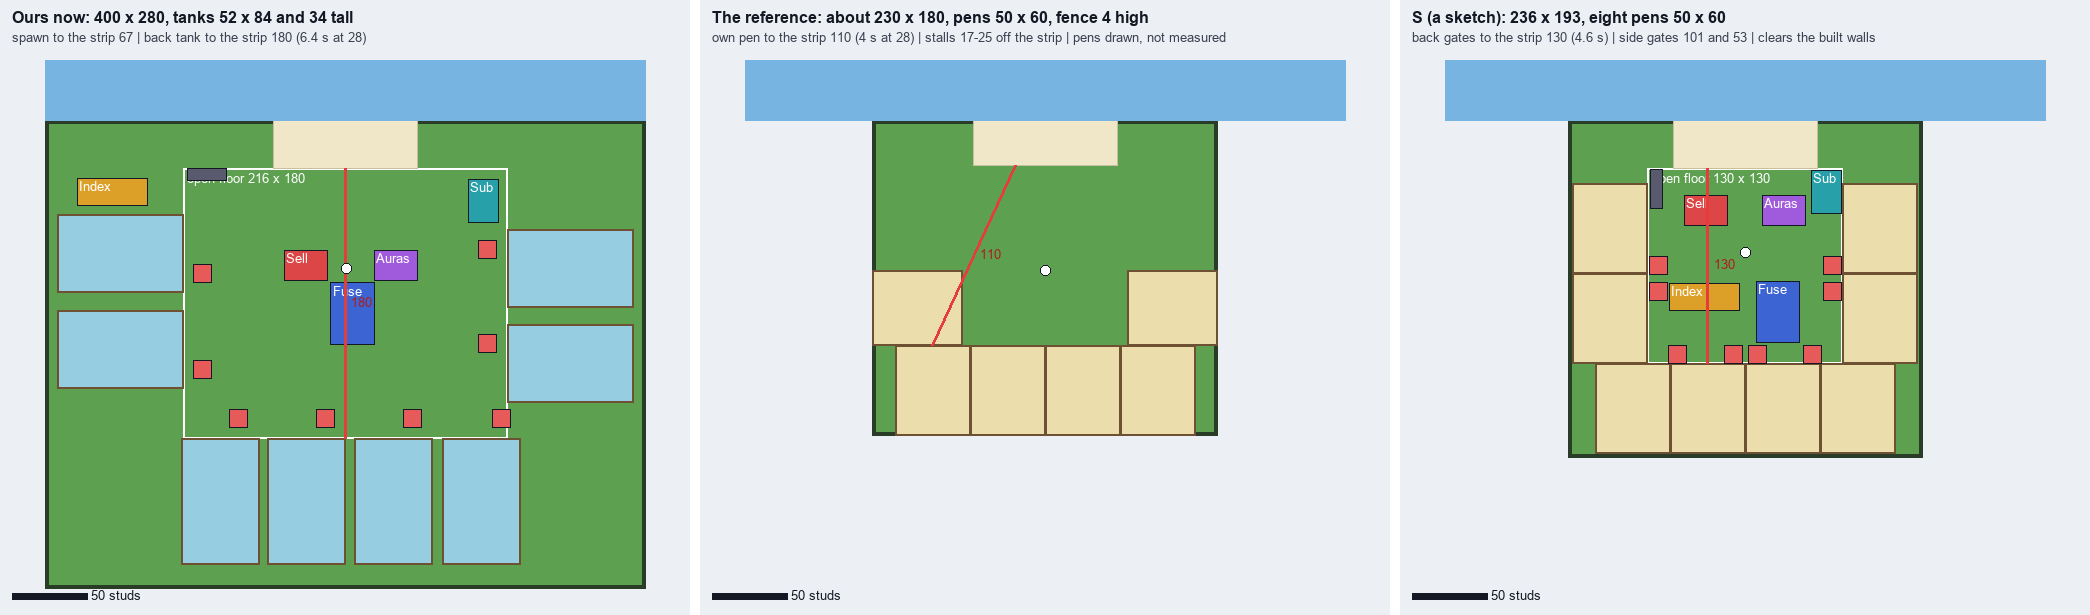
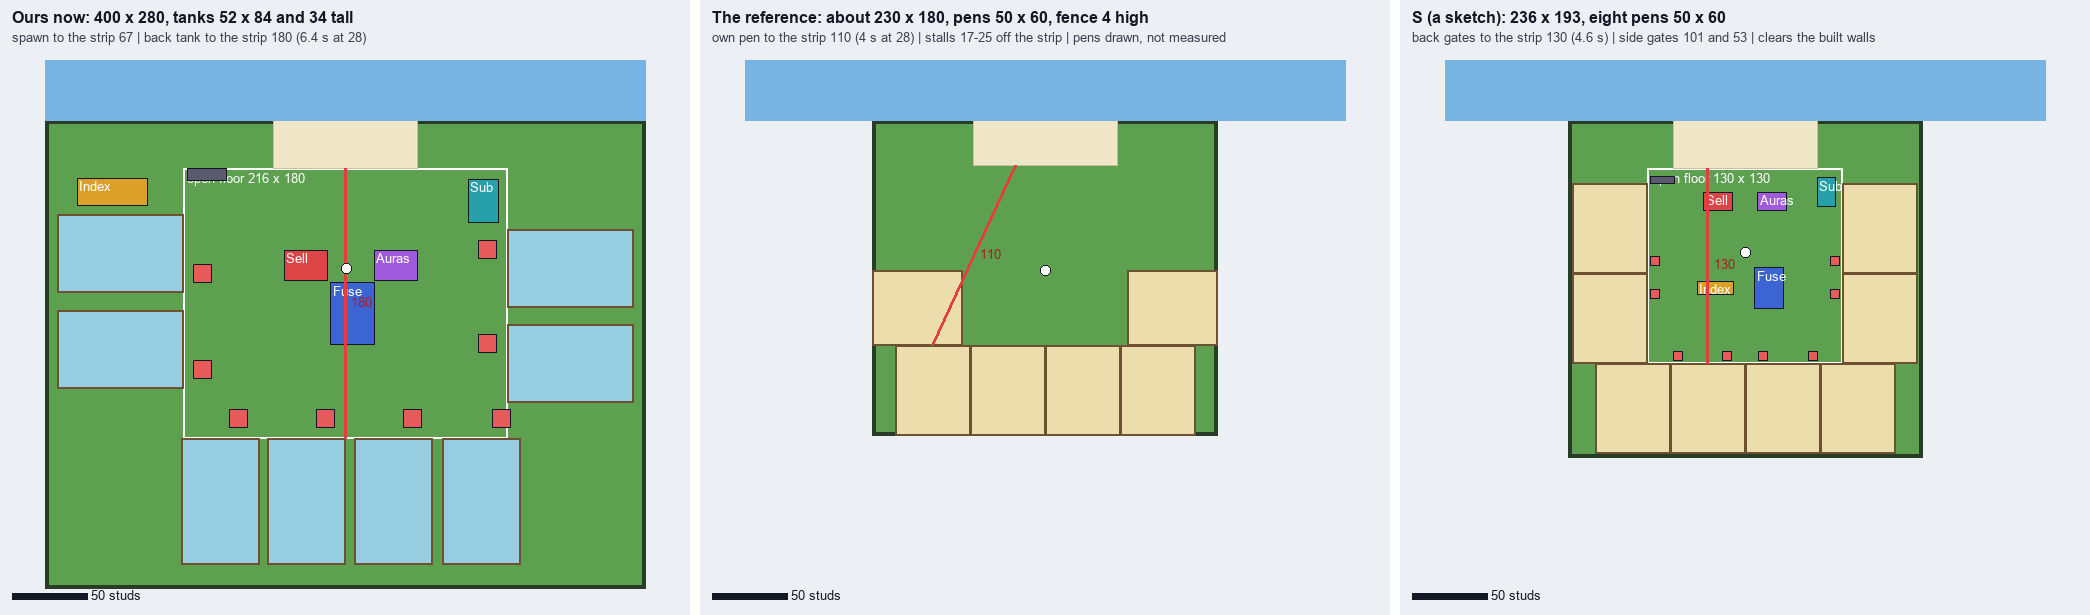
S's stations and pads at the reference's measured size: ours were 1.5 to 2.4 times theirs (written, not loaded)

Changed region(s): [[0.7775, 0.4325, 0.9019, 0.587], [0.7775, 0.278, 0.9019, 0.3707]]

diff --git a/tools/map/hub_try.py b/tools/map/hub_try.py
@@ -3,7 +3,7 @@ side of the map. Nothing under Workspace.ClaudeBlockout is touched, and the game
 
   Workspace.HubTryS     the hub's floor, strip, walls and the first of the lane, as the generator builds them at S's size
                         (tools/map/hub_s.py), without props, water or barriers
-  Workspace.HubTryPens  S's eight pens (one style, mixed stages), the stations at their present size, the trainer pads;
+  Workspace.HubTryPens  S's eight pens (one style, mixed stages), the stations and trainer pads at the reference's size (plan.FIT);
                         and, beside the walls, the pen at all six stages in a row (tools/map/pen_levels.py)
 
 usage: python tools/map/hub_s.py && python tools/map/hub_try.py [style B or E; A and C are drawn only at stages 0, 2 and 5]
@@ -122,19 +122,30 @@ def pens(out):
 def stations(out):
     hub = json.load(open(os.path.join(ROOT, "art", "map", "greybox", "hub.json")))
     for tx, tz, tw, _td, label, colour in plan.s_things:
-        if tw == 12 and not label:
-            Kit(out, "S/Pads", (tx, hub_kit.FLOOR_Y, tz)).box(0, 0, 0, 12, 0.6, 12, colour, n="Pad", solid=False, shadow=False)
+        if tw == plan.PAD_SIZE and not label:
+            Kit(out, "S/Pads", (tx, hub_kit.FLOOR_Y, tz)).box(0, 0, 0, tw, 0.5, tw, colour, n="Pad", solid=False, shadow=False)
             continue
         name = label or "Earners"
         mine = [p for p in hub["parts"] if p["m"] == "Stations/" + name or p["m"].startswith("Stations/" + name + "/")]
         body = [p for p in mine if "s" in p and not p.get("bill")]
         cx = (min(p["p"][0] for p in body) + max(p["p"][0] for p in body)) / 2
         cz = (min(p["p"][2] for p in body) + max(p["p"][2] for p in body)) / 2
+        fit = plan.FIT[name]
         for p in mine:
             p = {a: b for a, b in p.items() if a != "circle"}  # its floor ring is tagged, and the game reads the tag
             if p.get("tex") == "ripple":
                 del p["tex"]
-            out.append(dict(p, m="S/" + name, p=[p["p"][0] - cx + tx, p["p"][1], p["p"][2] - cz + tz]))
+            ax = [p.get("x", (1, 0, 0)), p.get("y", (0, 1, 0))]
+            ax.append([ax[0][1] * ax[1][2] - ax[0][2] * ax[1][1], ax[0][2] * ax[1][0] - ax[0][0] * ax[1][2], ax[0][0] * ax[1][1] - ax[0][1] * ax[1][0]])
+            size = [p["s"][i] * math.sqrt(sum((fit[j] * ax[i][j]) ** 2 for j in range(3))) for i in range(3)] if "s" in p else None
+            if p["n"] == "Ring":
+                size = [plan.RING, p["s"][1], plan.RING]
+            if size:
+                p["s"] = [round(v, 3) for v in size]
+            if p.get("bill"):
+                p["bill"] = dict(p["bill"], size=[v * 0.45 for v in p["bill"]["size"]])  # theirs is about a stall wide
+            at = [p["p"][0] - cx, p["p"][1] - hub_kit.FLOOR_Y, p["p"][2] - cz]
+            out.append(dict(p, m="S/" + name, p=[at[0] * fit[0] + tx, at[1] * fit[1] + hub_kit.FLOOR_Y, at[2] * fit[2] + tz]))
 
 
 def rows(out):

diff --git a/tools/map/hub_scale_plan.py b/tools/map/hub_scale_plan.py
@@ -132,9 +132,17 @@ s_pens = [(-100, -50, -212 + SZ, -152 + SZ), (-50, 0, -212 + SZ, -152 + SZ), (0,
 s_gates = [(x, z + SZ, dx, dz) for x, z, dx, dz in
            [(-57.5, -152, 0, 1), (-25, -152, 0, 1), (25, -152, 0, 1), (57.5, -152, 0, 1),
             (-65, -122, 1, 0), (-65, -72, 1, 0), (65, -122, -1, 0), (65, -72, -1, 0)]]
-s_things = [(-26, -60, 29, 20, "Sell", RED), (26, -60, 29, 20, "Auras", PURPLE), (22, -118 + SZ, 29, 41, "Fuse", BLUE),
-            (-27, -108 + SZ, 47, 18, "Index", GOLD), (54, -48, 20, 29, "Sub", TEAL), (-59, -46, 8, 26, "", GREY)]
-s_things += trainers([(x, z + SZ) for x, z in [(-45, -146), (-8, -146), (8, -146), (45, -146), (-58, -104), (-58, -87), (58, -104), (58, -87)]])
+# what stands on the floor is at the reference's size too (2026-11-23, the user: "the hub size still aint matched up"):
+# theirs measured from run 6.0 s, 21 s and 39 s (ground.py): a stall 8.5 by 6.3 (posts) and about 9 high, its ring 11.5,
+# the fuse machine 19 wide, a trainer's pad 5. Ours were 20 by 11 by 12.6, 16, 28.6 and 12. FIT scales a station in its
+# own axes; the lighthouse and the earners board have nothing to measure against (theirs is a button and a wall board)
+FIT = {"Sell": (0.64, 0.7, 0.5), "Auras": (0.64, 0.7, 0.5), "Sub": (0.5, 0.7, 0.64), "Fuse": (0.66, 0.66, 0.66),
+       "Index": (0.5, 0.5, 0.5), "Earners": (0.6, 0.6, 0.6)}
+PAD_SIZE, RING = 6, 11.5
+s_things = [(-18, -54, 19, 12, "Sell", RED), (18, -54, 19, 12, "Auras", PURPLE), (16, -112, 19, 27, "Fuse", BLUE),
+            (-20, -112, 24, 9, "Index", GOLD), (54, -48, 12, 19, "Sub", TEAL), (-55, -40, 16, 5, "", GREY)]
+s_things += [(x, z + SZ, PAD_SIZE, PAD_SIZE, "", PAD) for x, z in
+             [(-45, -147), (-12, -147), (12, -147), (45, -147), (-60, -106), (-60, -84), (60, -106), (60, -84)]]
 S_TRY = {"HUB_HALF": 118, "HUB_BACK": -225, "CORNER": 12, "FRONT_TURN": 8, "GATE_TURN": 17}
 assert not check("S", (-118, 118, -225, 0), (-48, 48, -32, 0), s_pens, s_things, s_gates)
 r = panel("S (a sketch): 236 x 193, eight pens 50 x 60",

diff --git a/docs/design/hub-review-2.md b/docs/design/hub-review-2.md
@@ -27,6 +27,7 @@ tell me other things we could do for the water".
 | **The hub** | 400 x 280 wall to wall (the floor part is 400 x 312, under the strip too); the open floor between the tank fronts alone is **216 x 180** | about **230 x 180** wall to wall, pens included | **The main cause.** Our open floor is the size of their whole hub. Every walk is long: back tank to the strip 180 studs (6.4 s) against their 110 (4 s) |
 | **The pens** | 52 x 84 of water, **34 tall** (posts 34) | about 50 x 60 (drawn from frames, not measured), **fence 4 high** | The footprint is close; the height is not. Eight 34-stud boxes make the hub read as a room of buildings |
 | **The studs** | one every **1.0** stud, on an 8-stud checker | one every **0.64**, no checker on the hub floor | Ours are 1.56 times bigger. At the same speed the ground slides past 1.56 times slower in studs, so running *looks* slower and the world bigger |
+| **What stands on the floor** (2026-11-23) | stalls 20 x 11 and 12.6 high, rings 16, the fuse machine 28.6 wide, trainer pads 12, floating names 30 wide | stalls **8.5 x 6.3** (posts) and about 9 high, rings **11.5**, fuse **19**, pads **5**, names about a stall wide (run 6.0, 21 and 39 s, `ground.py`, good to about 15%) | **Ours are 1.5 to 2.4 times theirs.** The first S try had the walls at their size with our stations at full size, so it still read wrong (the user: "the hub size still aint matched up") |
 | Camera | not measured | not measured | One capture framed like H1 would settle it |
 
 ![ours, the reference, and S, all at one scale](../attachments/hub-scale-plans.png)
@@ -130,14 +131,17 @@ longer than a 50 x 60 pen. `Taller` (3) and `Slots` (2) are Hugo's numbers: **12
 The pictures show the **layered best case**, squeezed where the height doesn't reach, not the game's laps.
 
 **Against it, honestly:** the 34-high tanks were the second cause of the hub feeling like a room of buildings, and a stage-5
-pen is 74. In S they stand at the back and sides, so nothing tall is on the line from the spawn to the strip. S from
-inside, with mixed stages (Blender: no studs, water more solid than Roblox's; left, from the strip to the pens; right, from
-the back pens to the strip), with E:
+pen is 74. In S they stand at the back and sides, so nothing tall is on the line from the spawn to the strip. **Since the
+same day the try's stations and pads are at the reference's measured size too** (`hub_scale_plan.FIT`; the lighthouse, half, and
+the earners board, 0.6, are guesses: theirs are a button and a wall board). Not scaled: the gate boards (ours 12.8 wide,
+theirs about 4), the floor's studs, the fish. S from
+inside, with mixed stages (Blender: no studs, water more solid than Roblox's; both from the strip to
+the pens), with E:
 
 ![S from inside, with pens of mixed stages](../attachments/hub-s-inside.png)
 
 **In Studio:** `tools/map/hub_try.py` writes the try (`Workspace.HubTryS` and `HubTryPens`, at x 14000, with E's
-six stages in a row beside it, at x 14900). It touches nothing under `ClaudeBlockout` and refuses to run in Play. **Loaded 2026-11-23** (771 shell parts, 1,365 pieces; none under a rim's name; nothing tagged;
+six stages in a row beside it, at x 14900). It touches nothing under `ClaudeBlockout` and refuses to run in Play. **The smaller stations are written, not loaded:** the UI chat has Studio. The first version was **loaded 2026-11-23** (771 shell parts, 1,365 pieces; none under a rim's name; nothing tagged;
 not saved). Not looked at there yet by the map chat (Studio's window was covered, so captures came out blank). **To judge there:** whether the
 water, at Roblox's 0.9, still reads as a tank with no rim round it. It has no spawn: in Play a one-off move of the character
 there comes first, then a check that the game leaves them there at 28.
@@ -177,7 +181,7 @@ smallest of the sizes tried that clears them: 238 x 184, 236 x 188 and 236 x 191
 For attention, following the reference:
 - **The spawn on the line from the pens to the strip**, facing the strip. The strip, the gap and the herd beyond it are
   straight ahead and fill the middle of the first view.
-- **Sell and Auras flank that line**, 18 from the strip (theirs 17 to 25); our stalls are 29 wide, so their middles are 52 apart (theirs 30). Every walk out passes them.
+- **Sell and Auras flank that line**, 16 from the strip (theirs 17 to 25); at their size the stalls' middles are 36 apart (theirs 30 to 38). Every walk out passes them.
 - **Nothing tall between the spawn and the gap.** The tanks' 34-stud height is what blocks the view today. Low pens give
   the whole hub one sightline, and from every pen front the herd shows through the gap.
 - The Fuse machine and the Index a little further back, the Earners board and the Submarine at the strip's two ends.
